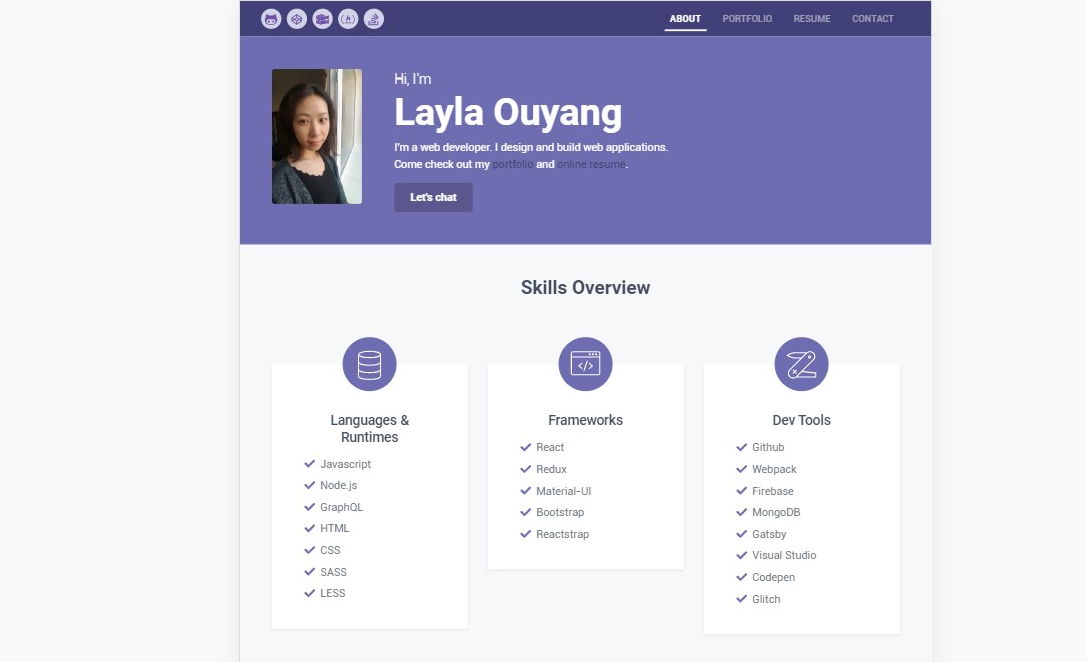
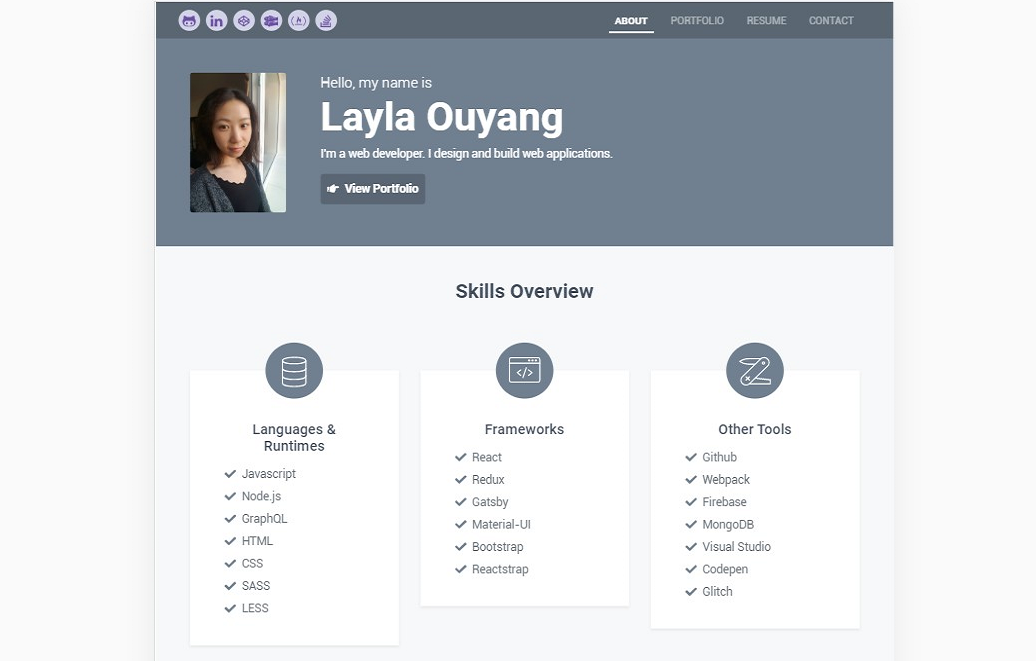
updated resume and changed color theme

diff --git a/src/style.css b/src/style.css
@@ -31,7 +31,7 @@ body {
 }
 
 .footer {
-  background: #434e5e;
+  background: #5a6773;
 }
 
 .form-control {
@@ -74,11 +74,11 @@ a.link-on-bg:hover {
 }
 
 .theme-bg-primary {
-  background-color: #6f6db2;
+  background-color: #708090;
 }
 
 .theme-bg-primary-darken {
-  background-color: #424079;
+  background-color: #5a6773;
 }
 
 a.theme-btn-on-bg,
@@ -119,7 +119,7 @@ a.theme-btn-on-bg:active,
   text-align: center;
   border-radius: 50%;
   transition: all 0.4s ease-in-out;
-  background-color: #d3d3e7;
+  background-color: #c9cfdc;
 }
 
 @media screen and (prefers-reduced-motion: reduce) {
@@ -129,7 +129,7 @@ a.theme-btn-on-bg:active,
 }
 
 .social-list a:hover {
-  background: #f4f4f4;
+  background: #f0f0f0;
 }
 
 #navigation {
@@ -205,7 +205,7 @@ a.theme-btn-on-bg:active,
 }
 
 .skills-icon-holder {
-  background: #6f6db2;
+  background: #708090;
   width: 80px;
   height: 80px;
   padding-top: 1.25rem;
@@ -345,7 +345,7 @@ a.theme-btn-on-bg:active,
 
 .project-cards .card-img-overlay.overlay-content {
   margin-top: 600px;
-  background: rgba(75, 73, 138, 0.95);
+  background: #7e8d9b;
   text-decoration: none;
 }
 
@@ -375,12 +375,12 @@ a.theme-btn-on-bg:active,
 }
 
 .filters .type.active {
-  background: #6f6db2;
+  background: #708090;
   color: #fff;
 }
 
 .filters .type.active:hover {
-  background: #6f6db2;
+  background: #708090;
   color: #fff;
 }
 
@@ -556,7 +556,7 @@ a.theme-btn-on-bg:active,
 }
 
 .resume-header {
-  background: #434e5e;
+  background: #919daa;
   color: rgba(255, 255, 255, 0.9);
   height: auto;
 }
@@ -577,7 +577,7 @@ a.theme-btn-on-bg:active,
 }
 
 .resume-header a {
-  color: rgba(255, 255, 255, 0.6);
+  color: rgba(255, 255, 255, 0.9);
 }
 
 .resume-header a:hover {
@@ -1139,7 +1139,7 @@ a.theme-btn-on-bg:active,
 }
 
 .sharing-providers > li.email {
-  background-color: #6f6db2;
+  background-color: #708090;
 }
 
 .sharing-providers > li.email:hover {
@@ -1288,7 +1288,7 @@ body {
 }
 
 .config-panel #color-options li.theme-6 a {
-  background-color: #6f6db2;
+  background-color: #708090;
 }
 
 .config-panel #color-options li.theme-7 a {
@@ -1333,7 +1333,7 @@ body {
 /* Link and button color override */
 
 a {
-  color: #6f6db2;
+  color: #708090;
 }
 
 a:hover {
@@ -1346,8 +1346,8 @@ a:hover {
 }
 
 .btn-primary {
-  background-color: #6f6db2;
-  border-color: #6f6db2;
+  background-color: #708090;
+  border-color: #708090;
 }
 
 .btn-primary:hover {
@@ -1436,7 +1436,7 @@ a:hover {
 
 /* project page tick color */
 .text-primary {
-  color: #6f6db2 !important;
+  color: #708090 !important;
 }
 
 /* tabs nav */
@@ -1449,8 +1449,8 @@ a:hover {
 .btn-light:not(:disabled):not(.disabled).active,
 .show > .btn-light.dropdown-toggle {
   color: #fff;
-  background-color: #6f6db2;
-  border-color: #6f6db2;
+  background-color: #708090;
+  border-color: #708090;
 }
 
 .project-media-body {

diff --git a/src/pages/resume.js b/src/pages/resume.js
@@ -82,7 +82,7 @@ const ResumePage = () => {
               />
               <div className="media-body px-3 d-flex flex-column flex-md-row mx-auto mx-lg-0">
                 <div className="primary-info">
-                  <h2 className="name mb-2 text-white text-uppercase">
+                  <h2 className="name my-3 text-white text-uppercase">
                     {data.site.siteMetadata.author}
                   </h2>
                   <h5 className="title mb-3 font-weight-light">
@@ -93,10 +93,10 @@ const ResumePage = () => {
                       <FontAwesomeIcon className="mr-2" icon="map-marker-alt" />
                       Beijing, China
                     </li>
-                    <li className="mb-2">
+                   {/*  <li className="mb-2">
                       <FontAwesomeIcon className="mr-2" icon="mobile-alt" />
                       +86 156 5296 9844
-                    </li>
+                    </li> */}
                     <li className="mb-2">
                       <FontAwesomeIcon className="mr-2" icon="envelope" />
                       <a href="mailto:laylaoy@gmail.com">

diff --git a/src/components/Layout.js b/src/components/Layout.js
@@ -112,19 +112,6 @@ const Footer = function(data) {
           </a>
         </small>
       </div>
-      <div>
-        <small className="copyright">
-          Theme design from{" "}
-          <a
-            className="text-light"
-            href="//www.3rdwavemedia.com"
-            target="_blank"
-            rel="noopener noreferrer"
-          >
-            <em>3rdwavemedia</em>
-          </a>
-        </small>
-      </div>
     </footer>
   );
 };
